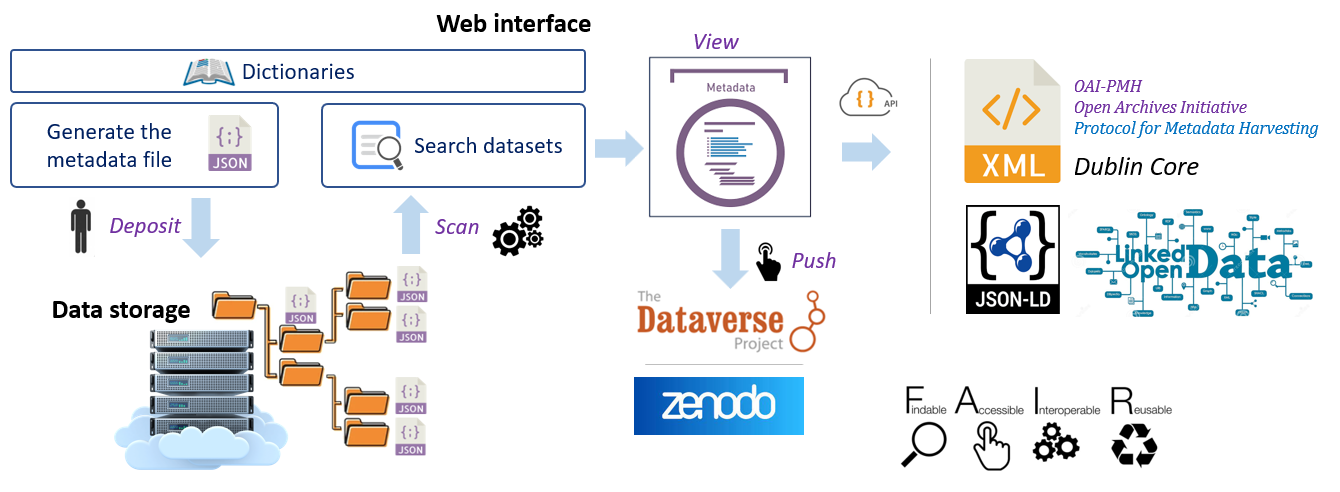
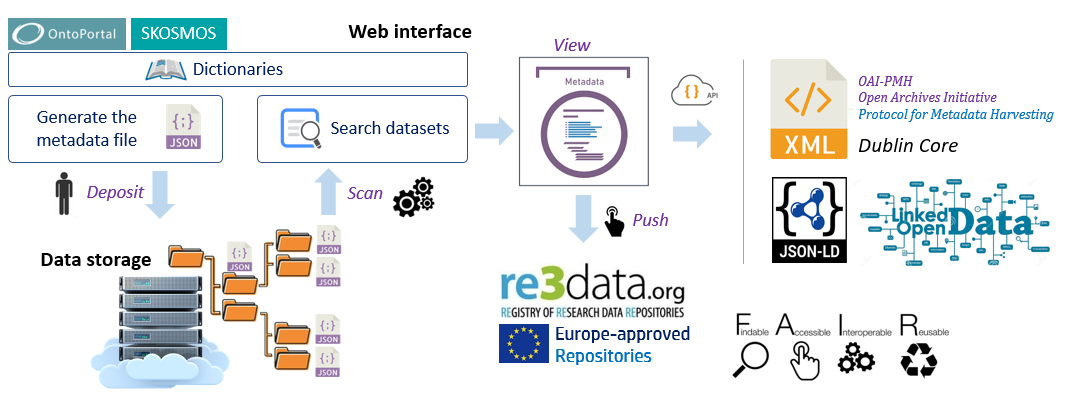
Deployed  with MkDocs version: 1.5.3

diff --git a/presentation/index.html b/presentation/index.html
@@ -719,13 +719,13 @@
 <p><center><img src="../images/overview_steps.png" width="700px"><br>
 <strong><em>Note:</em></strong>  <em>The step numbers indicated in the figure correspond to the different points developed below</em>
 </center></p>
-<p><strong>1</strong> - First you must define all the metadata to enter (i.e. the container in relation to the content). It is possible to define all the metadata using a single file (in TSV<sup id="fnref:1"><a class="footnote-ref" href="#fn:1">1</a></sup> format, therefore using a spreadsheet). The metadata proposed by default was mainly established according to the DDI (Data Documentation Initiative) metadata schema. This schema also largely corresponds to that adopted by the Dataverse software. This is a primordial step because both input and search interfaces are completely generated from these definition files, defining in this way each of the fields, their input type (checkbox, dropbox, textbox, ...) and also the associated controlled vocabulary (ontology and thesaurus by autocompletion, drop-down list according to a list of fixed terms). See the <a href="../definitions/terminology">Terminology Definition</a> section.</p>
-<p><strong>2</strong> - In order to facilitate the entry of metadata (content in relation to the container), it is possible and even strongly recommended to create dictionaries by metadata categories. The dictionaries offered by default are: people, funders, data producers, as well as a vocabulary dictionary allowing you to mix ontologies and thesauri from several sources. Each of these dictionaries allows you to enter a name or a main title by autocompletion<sup id="fnref:3"><a class="footnote-ref" href="#fn:3">3</a></sup>. Then the information associated with it will be added during export (data deposit, JSON-LD format, OAI-PMH). See the <a href="../dictionaries">Dictionaries</a> section.</p>
-<p><strong>3</strong> - The web interface for entering metadata is built in accordance with the terminology definition file (See <a href="../definitions/terminology">Terminology definition</a>). The metadata is thus distributed according to the different sections chosen, each constituting a tab. Mandatory fields are marked with a red star and must be documented in order to be able to generate the metadata file (see <a href="../images/entry_fig.png" data-lightbox="fig1">screenshot 1</a> &amp; <a href="../images/entry_fig2.png" data-lightbox="fig5">screenshot 2</a>). The entry of metadata governed by a controlled vocabulary (<i>dictionary, thesaurus or ontology</i>) is done by autocompletion<sup id="fnref2:3"><a class="footnote-ref" href="#fn:3">3</a></sup>. Once the mandatory fields (at least) and other recommended fields (the best) have been entered, the metadata file can be generated in JSON<sup id="fnref:2"><a class="footnote-ref" href="#fn:2">2</a></sup> format.</p>
+<p><strong>1</strong> - First you must define all the <a href="https://en.wikipedia.org/wiki/Metadata" target="_blank">metadata</a> to enter (i.e. the container in relation to the content). It is possible to define all the metadata using a single file (in TSV<sup id="fnref:1"><a class="footnote-ref" href="#fn:1">1</a></sup> format, therefore using a spreadsheet). The metadata proposed by default was mainly established according to the <a href="https://ddialliance.org/" target="_blank">DDI</a> (Data Documentation Initiative) <a href="https://en.wikipedia.org/wiki/Metadata_standard" target="_blank">metadata schema</a>. This schema also largely corresponds to that adopted by the <a href="https://dataverse.org/" target="_blank">Dataverse</a> software. This is a primordial step because both input and search interfaces are completely generated from these definition files, defining in this way each of the fields, their input type (<em>checkbox</em>, <em>dropbox</em>, <em>textbox</em>, ...) and also the associated Controlled Vocabulary (<a href="https://en.wikipedia.org/wiki/Ontology_(information_science)" target="_blank">ontology</a> and <a href="https://en.wikipedia.org/wiki/Thesaurus_(information_retrieval)" target="_blank">thesaurus</a> by autocompletion<sup id="fnref:3"><a class="footnote-ref" href="#fn:3">3</a></sup>, drop-down list according to a list of fixed terms). See the <a href="../definitions/terminology">Terminology Definition</a> section.</p>
+<p><strong>2</strong> - In order to facilitate the entry of metadata (content in relation to the container), it is possible and even strongly recommended to create dictionaries by metadata categories. The dictionaries offered by default are: people, funders, data producers, as well as a vocabulary dictionary allowing you to mix ontologies and thesauri from several sources. Each of these dictionaries allows you to enter a name or a main title by autocompletion<sup id="fnref2:3"><a class="footnote-ref" href="#fn:3">3</a></sup>. Then the information associated with it will be added during export (data deposit, JSON-LD format, OAI-PMH). See the <a href="../dictionaries">Dictionaries</a> section.</p>
+<p><strong>3</strong> - The web interface for entering metadata is built in accordance with the terminology definition file (See <a href="../definitions/terminology">Terminology definition</a>). The metadata is thus distributed according to the different sections chosen, each constituting a tab. Mandatory fields are marked with a red star and must be documented in order to be able to generate the metadata file (see <a href="../images/entry_fig.png" data-lightbox="fig1">screenshot 1</a> &amp; <a href="../images/entry_fig2.png" data-lightbox="fig5">screenshot 2</a>). The entry of metadata governed by a controlled vocabulary (<i>dictionary, thesaurus or ontology</i>) is done by autocompletion<sup id="fnref3:3"><a class="footnote-ref" href="#fn:3">3</a></sup>. Once the mandatory fields (at least) and other recommended fields (the best) have been entered, the metadata file can be generated in JSON<sup id="fnref:2"><a class="footnote-ref" href="#fn:2">2</a></sup> format.</p>
 <p><strong>4</strong> - The file generated in JSON format must be placed in the <a href="../infrastructure">storage space</a> reserved for this purpose. The role played by this metadata file can be seen as a README file adapted for machines, but also readable by humans. With an internal structure, it offers coherence and consistency of information that a simple README file with a completely free and therefore unstructured text format does not allow. Furthermore, the central idea is to use the storage space as a local data repository, so that the metadata should go to the data and not the other way around. If the <a href="../images/filebrowser_fig1.png" data-lightbox="fig8">filebrowser</a> application is installed, then you can directly access the data space according to your access rights. See on <a href="https://github.com/djacob65/maggot-fb" target="_blank">github</a>.</p>
 <p><strong>5</strong> - According to a fixed period (<a href="https://github.com/inrae/pgd-mmdt/blob/main/dockerscanpart/scripts/pgd-cron" target="_blank">30 min</a>), all the metadata files in JSON format are scanned, parsed then loaded into a <a href="https://www.mongodb.com/basics" target="_blank">MongoDB</a> database. This allows you to perform searches based on predefined metadata. The search form, in its compact shape on the left of the screen, is almost the same as the entry form (see a <a href="../images/search_fig.png" data-lightbox="fig6">screenshot</a>). Depending on the search criteria, a list of data sets is provided, with for each of them a link pointing to the detailed sheet.</p>
 <p><strong>6</strong> - The detailed metadata sheet provides all the metadata divided by section. Unfilled metadata does not appear by default. When a URL can be associated with information (ORCID, Ontology, web site, etc.), you can click on it to go to the corresponding link. Likewise, it is possible to follow the associated link on each of the resources. From this sheet, you can also export the metadata according to different schemata (Dataverse, Zenodo, JSON-LD). See <a href="../images/metadata_fig0.png" data-lightbox="fig7">screenshot 1</a> &amp; <a href="../images/metadata_fig1.png" data-lightbox="fig4">screenshot 2</a>.</p>
-<p><strong>7</strong> - Finally, once you have decided to <a href="../publish">publish your metadata</a> with your data, you can choose the repository that suits you (currently repositories based on Dataverse and Zenodo are supported). You will first need to connect to the repository in order to retrieve the key (the API token) authorizing you to submit the dataset. This obviously assumes that you have the privileges (creation/modification rights) to do so.</p>
+<p><strong>7</strong> - Finally, once you have decided to <a href="../publish">publish your metadata</a> with your data, you can choose the repository that suits you (currently repositories based on <a href="https://dataverse.org/" target="_blank">Dataverse</a> and <a href="https://www.openaire.eu/zenodo-guide" target="_blank">Zenodo</a> are supported).</p>
 <div class="footnote">
 <hr />
 <ol>
@@ -736,7 +736,7 @@
 <p><em>JavaScript Object Notation</em> : format used to represent structured information&#160;<a class="footnote-backref" href="#fnref:2" title="Jump back to footnote 2 in the text">&#8617;</a></p>
 </li>
 <li id="fn:3">
-<p><em>Autocomplete</em>: feature in which an application predicts the rest of a word a user is typing&#160;<a class="footnote-backref" href="#fnref:3" title="Jump back to footnote 3 in the text">&#8617;</a><a class="footnote-backref" href="#fnref2:3" title="Jump back to footnote 3 in the text">&#8617;</a></p>
+<p><em>Autocomplete</em>: feature in which an application predicts the rest of a word a user is typing&#160;<a class="footnote-backref" href="#fnref:3" title="Jump back to footnote 3 in the text">&#8617;</a><a class="footnote-backref" href="#fnref2:3" title="Jump back to footnote 3 in the text">&#8617;</a><a class="footnote-backref" href="#fnref3:3" title="Jump back to footnote 3 in the text">&#8617;</a></p>
 </li>
 </ol>
 </div>

diff --git a/vocabulary/index.html b/vocabulary/index.html
@@ -697,13 +697,32 @@
 </ul>
 <hr>
 
-<p><strong>1</strong> - <strong>Vocabulary open for addition</strong> (<a href="../images/vocabulary_fig1.png" data-lightbox="fig1">checkbox with feature open=1</a>)</p>
+<p><strong>1</strong> -  <strong>Vocabulary based on a list of terms fixed in advance</strong> (<a href="../images/vocabulary_fig1.png" data-lightbox="fig1">checbox with feature open=0</a>)</p>
+<ul>
+<li>List of well-chosen and limited Control Vocabulary e.g according to a reference e.g. Data Document Initiative.</li>
+</ul>
+<p><strong>2</strong> - <strong>Vocabulary open for addition</strong> (<a href="../images/vocabulary_fig2.png" data-lightbox="fig2">checkbox with feature open=1</a>)</p>
 <ul>
 <li>allows you to collect the desired <em>Control Vocabulary</em> (CV) from users. In order to initiate the list, you can put some terms in the <em>predefined terms</em> column of the terminology definition file.</li>
 </ul>
-<p><strong>2</strong> - <strong>Input by <a href="https://en.wikipedia.org/wiki/Autocomplete" target="_blank">autocompletion</a> in a text field</strong> (<a href="../images/vocabulary_fig2.png" data-lightbox="fig2">textbox</a>) and based on a <a href="https://en.wikipedia.org/wiki/Web_API" target="_blank">web API</a>. </p>
+<p><strong>3</strong> - <strong>Vocabulary based on a <a href="https://en.wikipedia.org/wiki/Web_API" target="_blank">web API</a> in a text field</strong> (<a href="../images/vocabulary_fig3.png" data-lightbox="fig3">textbox</a>)</p>
 <ul>
 <li>The web API is defined in a JavaScript file with the same name as the assigned variable (here <em>cities</em>) and must present under <em>web/js/autocomplete</em>. For example, to enter a French city you can use the API <a href="https://geo.api.gouv.fr/decoupage-administratif" target="_blank">geo.api.gouv.fr</a>. See <a href="https://github.com/inrae/pgd-mmdt/blob/main/web/js/autocomplete/cities.js" target="_blank">cities.js</a></li>
+</ul>
+<p><strong>4</strong> - <strong>Vocabulary based on a <a href="../dictionaries">dictionary</a> with multiple selection</strong> (<a href="../images/vocabulary_fig4.png" data-lightbox="fig4">multiselect</a>) </p>
+<ul>
+<li>Dictionaries allow you to record multiple information necessary to define an entity, such as the names of people or even the funders. These information, once entered and saved in a file called a dictionary. Based on a very simple JavaScript retrieving the complete list of items included in the dictionary, thus creating a sort of internal API, we can fill a Maggot field by  autocompletion related to a search for these items.</li>
+<li>The JavaScript file must be named <em><strong>dico.js</strong></em> and be present under <em><strong>web/cvlist/<em>dico</em>/</strong></em> where <em><strong>dico</strong></em> is the name of the dictionary. See for instance <em><a href="https://github.com/inrae/pgd-mmdt/tree/main/web/cvlist/people/people.js" target="_blank">people.js</a></em></li>
+</ul>
+<p><strong>5</strong> - <strong>Vocabulary based on a <a href="https://skosmos.org/" target="_blank">SKOSMOS Thesaurus</a> with multiple selection</strong> (<a href="../images/vocabulary_fig5.png" data-lightbox="fig5">multiselect</a>) </p>
+<ul>
+<li>SKOSMOS is a web tool facilitating the posting of controlled vocabulary online in the form of a <a href="https://en.wikipedia.org/wiki/Thesaurus_(information_retrieval)" target="_blank">thesaurus</a> according to the <a href="https://en.wikipedia.org/wiki/Simple_Knowledge_Organization_System" target="_blank">SKOS</a> data model. It offers a navigation interface as well as a web API interface. A simple JavaScript allows you to easily connect this web API with a multiselect field.</li>
+<li>The JavaScript file must have the same name as the assigned variable (here <em>VOvocab</em>) and must present under <em>web/js/autocomplete</em>. See for instance <a href="https://github.com/inrae/pgd-mmdt/blob/main/web/js/autocomplete/VOvocab.js" target="_blank">VOvocab.js</a>.</li>
+</ul>
+<p><strong>6</strong> - <strong>Vocabulary based on an <a href="https://ontoportal.org/" target="_blank">OntoPortal</a> with multiple selection</strong> (<a href="../images/vocabulary_fig6.png" data-lightbox="fig6">multiselect</a>) </p>
+<ul>
+<li>Portals based on OntoPortal offer the wealth of ontologies according to several domains of application (e.g. BioPortal in the biomedical domain with 1,073 ontologies, AgroPortal in the domain of plants with 157 ontologies). A simple JavaScript allows you to easily connect this web API with a multiselect field.</li>
+<li>No need of JavaScript file. The Bioportal Widget has been implemented into Maggot. You have to declare the ontology you want to use directly into the terminology definition file.</li>
 </ul>
 <p><br></p>
 

diff --git a/dictionaries/index.html b/dictionaries/index.html
@@ -713,8 +713,7 @@
 <h3 id="presentation">Presentation<a class="headerlink" href="#presentation" title="Permanent link">&para;</a></h3>
 <ul>
 <li>The use of dictionaries has no other purpose to facilitate the entry of metadata, entry which can be long and repetitive in generalist data warehouses (such as repository based on Dataverse).</li>
-<li>Dictionaries allow you to record multiple information necessary to define an entity, such as the names of people or even the funders. 
-its information, once entered and saved in a file called a dictionary, can be subsequently associated with the corresponding entity. </li>
+<li>Dictionaries allow you to record multiple information necessary to define an entity, such as the names of people or even the funders. These information, once entered and saved in a file called a dictionary, can be subsequently associated with the corresponding entity. </li>
 <li>The dictionaries offered by default are: people, funders, data producers, as well as a vocabulary dictionary allowing you to mix ontologies and thesauri from several sources. </li>
 <li>To add a new dictionary, simply create a directory under <em><a href="https://github.com/inrae/pgd-mmdt/tree/main/web/cvlist" target="_blank">web/cvlist</a></em> then putting the files corresponding to the dictionary inside. Dictionaries will be automatically found by browsing this directory.</li>
 <li>Dictionary files are made using a simple spreadsheet then exported in TSV<sup id="fnref:1"><a class="footnote-ref" href="#fn:1">1</a></sup> format.</li>

diff --git a/about/index.html b/about/index.html
@@ -761,8 +761,7 @@
 <li>Concerning the first idea: "Just" place a metadata file (JSON format) describing the project data in each subdirectory, and then find the projects and/or data corresponding to specific criteria. The choice fell on the JSON format, very suitable for describing metadata, readable by both humans and machines.</li>
 <li>Concerning the second idea: Given the diversity of the fields, the approach chosen is to be both the most flexible and the most pragmatic possible by allowing users to choose their own vocabulary (controlled or not) corresponding to the reality of their field and their activities. However, a good approach is as much as possible to use only controlled vocabulary, that is to say relevant and sufficient vocabulary used as a reference in the field concerned to allow users to describe a project and its context without having to add additional terms. To this end, the tool must allow users a progressive approach towards the adoption of standardized controlled vocabularies (thesauri or even ontologies).</li>
 </ul>
-<hr>
-
+<hr />
 <h3 id="links">Links<a class="headerlink" href="#links" title="Permanent link">&para;</a></h3>
 <ul>
 <li><strong>Source code on Github</strong> : <a href="https://github.com/inrae/pgd-mmdt" target="_blank">inrae/pgd-mmdt</a></li>
@@ -784,6 +783,7 @@
 <ul>
 <li>Edouard Guitton (<a href="https://www.inrae.fr/departements/sa" target="_blank">@INRAE Dept. SA</a>, <a href="https://www.emergin.fr/emergin_eng/" target="_blank">@Emerg'IN</a>)</li>
 </ul>
+<p><br><br></p>
 
 
 
